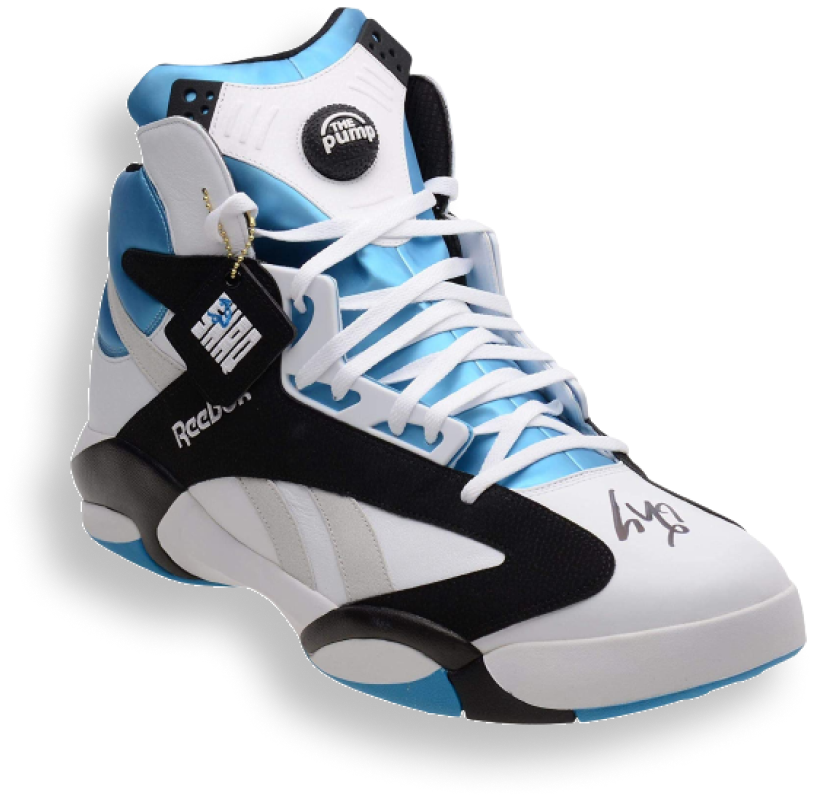
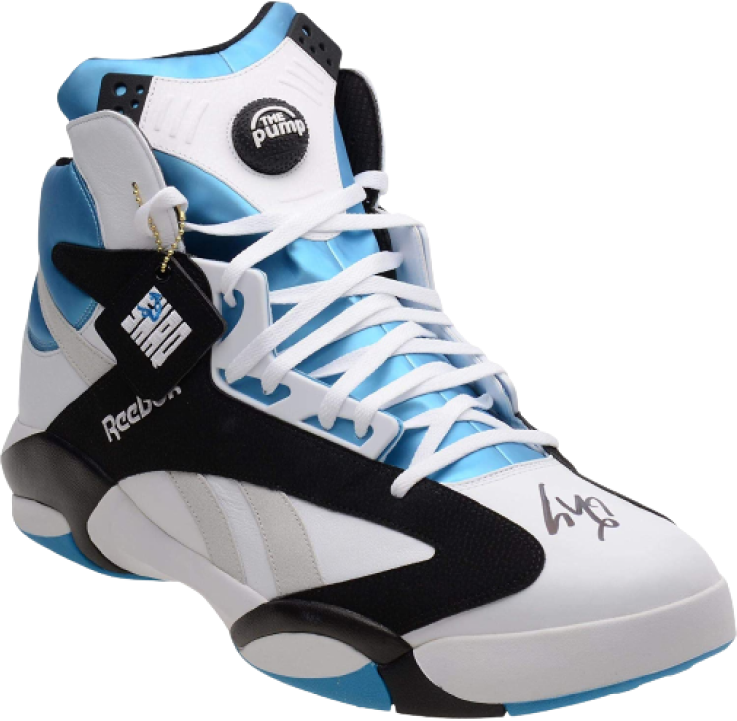
Update

diff --git a/styles.css b/styles.css
@@ -185,22 +185,22 @@ div {
 /* Sneaker */
 .sneaker {
 	position: absolute;
-	filter: drop-shadow(-32px 35px 41px rgba(0, 0, 0, 0.25));
+
 	top: 276px;
 	left: 70px;
 	z-index: 1;
-	width: 736.4;
-	height: 720px;
+	width: 737px;
+	height: 721px;
+	object-fit: scale-down;
 }
+
 .sneaker-shadow {
 	outline: 1px solid black;
 	position: absolute;
-	width: 750.99px;
+	width: 751px;
 	border-radius: 50%;
-	height: 103.24px;
-	left: 29px;
-	top: 885px;
-	background: rgba(0, 0, 0, 0.8);
-	filter: blur(44px);
+	height: 100px;
+
+	filter: blur(23px);
 	transform: rotate(14.62deg);
 }
